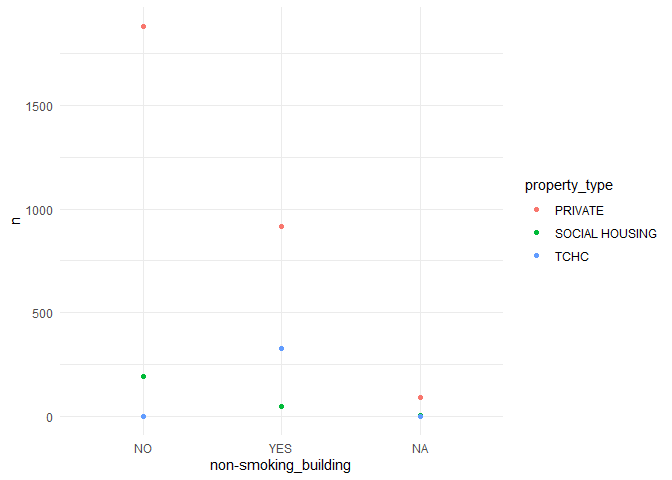
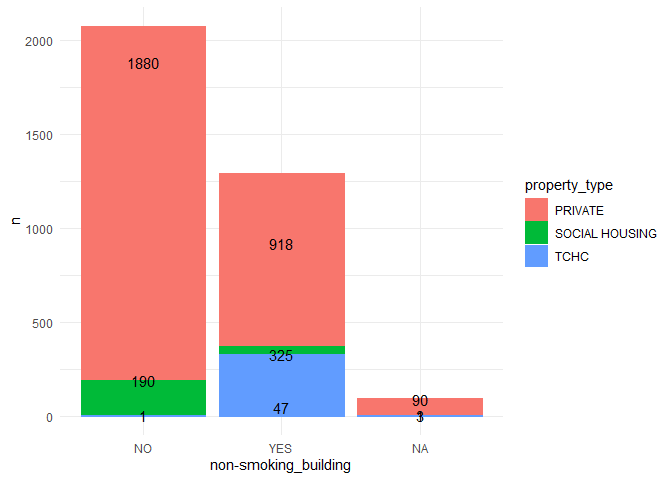
Updated milestone 2 questions (rmd and md files), new graphs, and properly saved rds file.

Changed region(s): [[0.0312, 0.0312, 0.7188, 0.875], [0.7812, 0.4062, 0.8125, 0.5625]]

diff --git a/mda2 files/mini-project-2.md b/mda2 files/mini-project-2.md
@@ -209,6 +209,7 @@ print(prop_bm)
 year_ward_TCH <- apt_buildings %>%
   select(prop_management_company_name, year_built, ward) %>%
   filter(prop_management_company_name == "TCH")
+
 print(year_ward_TCH)
 ```
 
@@ -275,23 +276,21 @@ safe_buildings <- apt_buildings %>%
     ## # ℹ 479 more rows
 
 ``` r
-#Summary Q 1
-summary_nonsmoke <- apt_buildings %>%
-  group_by(`non-smoking_building`) %>%
+#Summary Q1
+summary_safe <- safe_buildings %>%
   summarise(year_mean = mean(year_built, na.rm = TRUE), year_max = max(year_built, na.rm = TRUE), year_sd = sd(year_built, na.rm = TRUE), year_median = median(year_built, na.rm = TRUE))
-print(summary_nonsmoke)
+
+print(summary_safe)
 ```
 
-    ## # A tibble: 3 × 5
-    ##   `non-smoking_building` year_mean year_max year_sd year_median
-    ##   <chr>                      <dbl>    <dbl>   <dbl>       <dbl>
-    ## 1 NO                         1962.     2018    18.5        1962
-    ## 2 YES                        1962.     2019    19.8        1961
-    ## 3 <NA>                       1951.     2019    19.6        1954
+    ## # A tibble: 1 × 4
+    ##   year_mean year_max year_sd year_median
+    ##       <dbl>    <dbl>   <dbl>       <dbl>
+    ## 1     1974.     2019    17.1        1972
 
 ``` r
-#Graphing histogram of safe buildings and when they were built. (Q9)
-safe_build_year1 <- ggplot(safe_buildings, aes(year_built, after_stat(density))) +
+#Graphing histogram of safe buildings and when they were built (I decided to use the select data from the first summary, not based on summary Q1). (Q9)
+safe_build_year1 <- ggplot(safe_buildings, aes(year_built)) +
    geom_histogram(bins= 5)
 print(safe_build_year1)
 ```
@@ -302,7 +301,7 @@ print(safe_build_year1)
 ![](mini-project-2_files/figure-gfm/unnamed-chunk-4-1.png)<!-- -->
 
 ``` r
-safe_build_year2 <- ggplot(safe_buildings, aes(year_built, after_stat(density))) +
+safe_build_year2 <- ggplot(safe_buildings, aes(year_built)) +
    geom_histogram(bins = 10)
 print(safe_build_year2)
 ```
@@ -313,8 +312,10 @@ print(safe_build_year2)
 ![](mini-project-2_files/figure-gfm/unnamed-chunk-4-2.png)<!-- -->
 
 ``` r
-safe_build_year3 <- ggplot(safe_buildings, aes(year_built, after_stat(density))) +
-   geom_histogram(bins = 30)
+safe_build_year3 <- ggplot(safe_buildings, aes(year_built)) +
+   geom_histogram(bins = 30) +
+  geom_vline(data = summary_safe, aes(xintercept = year_mean, colour = "red"))
+  
 print(safe_build_year3)
 ```
 
@@ -356,7 +357,7 @@ Q3:Are there correlations between property types and other variables?
 prop_nonsmoke <- apt_buildings %>%
   select(property_type, `non-smoking_building`) %>%
   group_by(`non-smoking_building`, property_type) %>%
-  summarise(n= n()) 
+  summarise(n= n())
 ```
 
     ## `summarise()` has grouped output by 'non-smoking_building'. You can override
@@ -399,8 +400,10 @@ print(proptype_correlation)
 ``` r
 #Graphing is easy with the cleaned up data set that I have made.(Q8)
 property_nonsmoke <- ggplot(prop_nonsmoke, aes(`non-smoking_building`, n)) +
-  geom_point(aes(colour = property_type)) + 
+  geom_col(aes(colour = property_type, fill = property_type)) + 
+  geom_text(aes(label=n)) +
   theme_minimal()
+
 print(property_nonsmoke)
 ```
 
@@ -418,50 +421,35 @@ Do the frequency of certain variables change by year?
 #Summary: I will use Q1: Compute the *range*, *mean*, and *two other summary statistics* of **one numerical variable** (year) across the groups of **one categorical variable** (heating type)
 heat_by_year <- apt_buildings %>%
   group_by(heating_type) %>%
-  summarise(year_mean = mean(year_built, na.rm = TRUE), year_range = range(year_built, na.rm = TRUE), year_sd = sd(year_built, na.rm = TRUE), year_median = median(year_built, na.rm = TRUE)) %>%
-  unique()
-```
+  summarise(year_mean = mean(year_built, na.rm = TRUE), year_max = max(year_built, na.rm = TRUE), year_sd = sd(year_built, na.rm = TRUE), year_median = median(year_built, na.rm = TRUE)) 
 
-    ## Warning: Returning more (or less) than 1 row per `summarise()` group was deprecated in
-    ## dplyr 1.1.0.
-    ## ℹ Please use `reframe()` instead.
-    ## ℹ When switching from `summarise()` to `reframe()`, remember that `reframe()`
-    ##   always returns an ungrouped data frame and adjust accordingly.
-    ## Call `lifecycle::last_lifecycle_warnings()` to see where this warning was
-    ## generated.
-
-    ## `summarise()` has grouped output by 'heating_type'. You can override using the
-    ## `.groups` argument.
-
-``` r
 print(heat_by_year)
 ```
 
-    ## # A tibble: 8 × 5
-    ## # Groups:   heating_type [4]
-    ##   heating_type   year_mean year_range year_sd year_median
-    ##   <chr>              <dbl>      <dbl>   <dbl>       <dbl>
-    ## 1 ELECTRIC           1967.       1838    24.5        1972
-    ## 2 ELECTRIC           1967.       2017    24.5        1972
-    ## 3 FORCED AIR GAS     1972.       1900    23.3        1968
-    ## 4 FORCED AIR GAS     1972.       2019    23.3        1968
-    ## 5 HOT WATER          1961.       1805    17.4        1960
-    ## 6 HOT WATER          1961.       2019    17.4        1960
-    ## 7 <NA>               1951.       1902    20.1        1954
-    ## 8 <NA>               1951.       2019    20.1        1954
+    ## # A tibble: 4 × 5
+    ##   heating_type   year_mean year_max year_sd year_median
+    ##   <chr>              <dbl>    <dbl>   <dbl>       <dbl>
+    ## 1 ELECTRIC           1967.     2017    24.5        1972
+    ## 2 FORCED AIR GAS     1972.     2019    23.3        1968
+    ## 3 HOT WATER          1961.     2019    17.4        1960
+    ## 4 <NA>               1951.     2019    20.1        1954
 
 ``` r
 #This shows me the trends in heating by year, where Hot water seems to be the oldest heating method, and forced air gas is the most modern.
 
-#Graphing: I will make a graph based on this data (Q8)
+#Graphing: I will make a graph based on this data (Q7 - jitter with alpha transparency)
 heat_types <- ggplot(apt_buildings, aes(heating_type, year_built)) + 
-  geom_boxplot(aes(colour = heating_type), width=0.2) +
+  geom_boxplot(aes(colour = heating_type), width=0.5) +
+  geom_jitter(aes(heating_type, year_built, colour= heating_type), width = 0.2, alpha = 0.2) +
   theme_minimal()
 print(heat_types)
 ```
 
     ## Warning: Removed 13 rows containing non-finite outside the scale range
     ## (`stat_boxplot()`).
+
+    ## Warning: Removed 13 rows containing missing values or values outside the scale range
+    ## (`geom_point()`).
 
 ![](mini-project-2_files/figure-gfm/unnamed-chunk-7-1.png)<!-- -->
 
@@ -531,7 +519,7 @@ and “after”.
 <!--------------------------- Start your work below --------------------------->
 
 ``` r
-#First, I will make a tibble of 8 columns that are tidy. Then, I will un-tidy the data by expanding (pivot_wider) based on ___
+#First, I will make a tibble of 8 columns that are tidy. Then, I will un-tidy the data by expanding (pivot_wider) based on if they are non-smoking
 
 tidy_tbl <- apt_buildings %>%
   select(id, site_address, property_type, `non-smoking_building`, no_of_units, year_built, no_of_storeys, ward)
@@ -586,24 +574,26 @@ print(untidy_tbl)
 retidy_tbl <- untidy_tbl %>%
   pivot_longer(cols = c('YES', 'NO', 'NA'), 
                names_to = "`non-smoking_building`",
-               values_to = ("year_built"))
+               values_to = ("year_built")) %>%
+  filter(!year_built == "NA")
+
 print(retidy_tbl)
 ```
 
-    ## # A tibble: 10,365 × 8
+    ## # A tibble: 3,442 × 8
     ##       id site_address         property_type no_of_units no_of_storeys ward 
     ##    <dbl> <chr>                <chr>               <dbl>         <dbl> <chr>
     ##  1 10359 65  FOREST MANOR RD  PRIVATE               218            17 17   
-    ##  2 10359 65  FOREST MANOR RD  PRIVATE               218            17 17   
-    ##  3 10359 65  FOREST MANOR RD  PRIVATE               218            17 17   
-    ##  4 10360 70  CLIPPER RD       PRIVATE               206            14 17   
-    ##  5 10360 70  CLIPPER RD       PRIVATE               206            14 17   
-    ##  6 10360 70  CLIPPER RD       PRIVATE               206            14 17   
-    ##  7 10361 2651  BLOOR ST W     PRIVATE                34             4 03   
-    ##  8 10361 2651  BLOOR ST W     PRIVATE                34             4 03   
-    ##  9 10361 2651  BLOOR ST W     PRIVATE                34             4 03   
-    ## 10 10362 22  BURNHAMTHORPE RD PRIVATE                42             5 03   
-    ## # ℹ 10,355 more rows
+    ##  2 10360 70  CLIPPER RD       PRIVATE               206            14 17   
+    ##  3 10361 2651  BLOOR ST W     PRIVATE                34             4 03   
+    ##  4 10362 22  BURNHAMTHORPE RD PRIVATE                42             5 03   
+    ##  5 10363 18  ANGLESEY BLVD    PRIVATE                25             4 02   
+    ##  6 10364 308  THE KINGSWAY    PRIVATE                34             4 02   
+    ##  7 10365 3  BEXHILL CRT       PRIVATE                14             4 02   
+    ##  8 10366 41  WARRENDER AVE    PRIVATE               105             7 02   
+    ##  9 10367 280  WELLESLEY ST E  PRIVATE               571            32 13   
+    ## 10 10368 11  ARLETA AVE       TCHC                  171             4 07   
+    ## # ℹ 3,432 more rows
     ## # ℹ 2 more variables: `\`non-smoking_building\`` <chr>, year_built <dbl>
 
 <!----------------------------------------------------------------------------->
@@ -658,7 +648,8 @@ apt_tidy <- apt_buildings %>%
   filter(pets_allowed == c("YES","NO")) %>%
   mutate(units_by_storeys = no_of_units/no_of_storeys) %>%
   arrange(year_built) %>%
-  mutate(build_age = 2024 - year_built)
+  mutate(build_age = 2024 - year_built) %>%
+  drop_na()
 ```
 
     ## Warning: There was 1 warning in `filter()`.
@@ -670,7 +661,7 @@ apt_tidy <- apt_buildings %>%
   print(apt_tidy)
 ```
 
-    ## # A tibble: 824 × 9
+    ## # A tibble: 823 × 9
     ##    year_built property_type `non-smoking_building` pets_allowed no_of_units
     ##         <dbl> <chr>         <chr>                  <chr>              <dbl>
     ##  1       1890 PRIVATE       NO                     YES                   16
@@ -683,7 +674,7 @@ apt_tidy <- apt_buildings %>%
     ##  8       1910 PRIVATE       YES                    YES                   10
     ##  9       1910 PRIVATE       NO                     YES                   18
     ## 10       1910 PRIVATE       NO                     YES                   44
-    ## # ℹ 814 more rows
+    ## # ℹ 813 more rows
     ## # ℹ 4 more variables: no_of_storeys <dbl>, ward <chr>, units_by_storeys <dbl>,
     ## #   build_age <dbl>
 
@@ -726,7 +717,7 @@ specifics in STAT 545.
 
 <!-------------------------- Start your work below ---------------------------->
 
-#### Question 1.3 Answer
+#### Question 3.1 Answer
 
 I want to consider the difference between three groups: the three
 property types. To do this, I need to run an ANOVA with unit \#s for
@@ -737,9 +728,9 @@ property_by_units <- aov(no_of_units ~ property_type, data=apt_tidy)
 summary(property_by_units)
 ```
 
-    ##                Df  Sum Sq Mean Sq F value  Pr(>F)    
-    ## property_type   2  152285   76143   9.214 0.00011 ***
-    ## Residuals     821 6784761    8264                    
+    ##                Df  Sum Sq Mean Sq F value   Pr(>F)    
+    ## property_type   2  151727   75864   9.176 0.000115 ***
+    ## Residuals     820 6779624    8268                     
     ## ---
     ## Signif. codes:  0 '***' 0.001 '**' 0.01 '*' 0.05 '.' 0.1 ' ' 1
 
@@ -777,8 +768,8 @@ print(broom_anova)
     ## # A tibble: 2 × 6
     ##   term             df    sumsq meansq statistic   p.value
     ##   <chr>         <dbl>    <dbl>  <dbl>     <dbl>     <dbl>
-    ## 1 property_type     2  152285. 76143.      9.21  0.000110
-    ## 2 Residuals       821 6784761.  8264.     NA    NA
+    ## 1 property_type     2  151727. 75864.      9.18  0.000115
+    ## 2 Residuals       820 6779624.  8268.     NA    NA
 
 The P-value is \<0.001, which indicates high significance. This is
 identified in the far right column of the tibble produced from
@@ -807,7 +798,8 @@ file in your `output` folder. Use the `here::here()` function.
 <!-------------------------- Start your work below ---------------------------->
 
 ``` r
-write_csv(prop_nonsmoke, "exported_prop_nonsmoke.csv")
+write_csv(prop_nonsmoke, 
+          file = here::here("Output", "exported_prop_nonsmoke.csv"))
 ```
 
 <!----------------------------------------------------------------------------->
@@ -823,8 +815,16 @@ Use the functions `saveRDS()` and `readRDS()`.
 <!-------------------------- Start your work below ---------------------------->
 
 ``` r
-write_rds(broom_anova, file = "aov_proptype_units")
+saveRDS(broom_anova, 
+        file = here::here("output", "aov_proptype_units.rds"))
+readRDS(here::here("Output", "aov_proptype_units.rds"))
 ```
+
+    ## # A tibble: 2 × 6
+    ##   term             df    sumsq meansq statistic   p.value
+    ##   <chr>         <dbl>    <dbl>  <dbl>     <dbl>     <dbl>
+    ## 1 property_type     2  151727. 75864.      9.18  0.000115
+    ## 2 Residuals       820 6779624.  8268.     NA    NA
 
 <!----------------------------------------------------------------------------->
 
